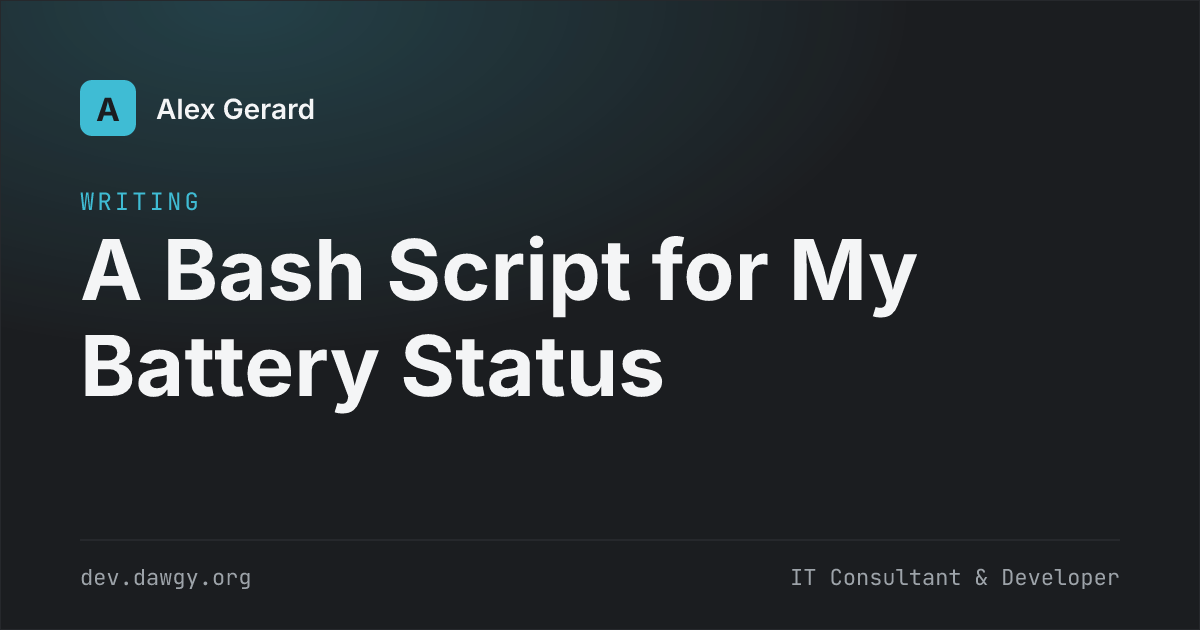
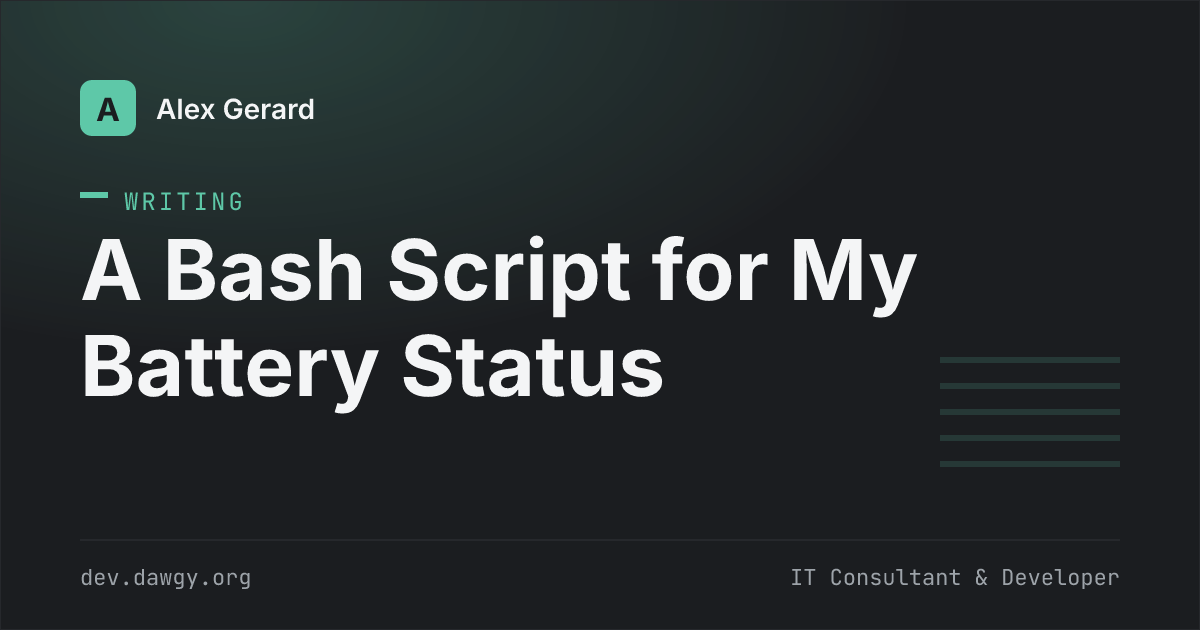
feat: self-hosted fonts, RSS, Now block, error boundary, Lighthouse CI
- Fonts self-hosted via @fontsource — no render-blocking Google Fonts
  request, no font flash.
- RSS feed (feed.xml) generated at build from the blog posts; linked in
  the head and footer.
- "Now" block on the home page (placeholder text to keep updated).
- Global ErrorBoundary — styled fallback instead of a blank page.
- OG share images now vary by type (accent colour + corner motif for
  work / writing / project).
- Lighthouse CI job in the workflow (informational, non-blocking) with
  score thresholds; a11y/SEO gated.
- Polish: richer JSON-LD (worksFor), explicit image dimensions.

Changed region(s): [[0.7708, 0.5429, 0.925, 0.754], [0.0617, 0.1206, 0.1233, 0.2413], [0.0617, 0.3016, 0.2158, 0.3317]]

diff --git a/src/components/ErrorBoundary.tsx b/src/components/ErrorBoundary.tsx
@@ -1,0 +1,58 @@
+import { Component, type ReactNode } from 'react';
+
+interface Props {
+  children: ReactNode;
+}
+interface State {
+  error: Error | null;
+}
+
+/**
+ * Catches render-time errors anywhere below it and shows a styled
+ * fallback instead of a blank page. Class component — error boundaries
+ * have no hook equivalent.
+ */
+export class ErrorBoundary extends Component<Props, State> {
+  state: State = { error: null };
+
+  static getDerivedStateFromError(error: Error): State {
+    return { error };
+  }
+
+  componentDidCatch(error: Error) {
+    // Surface the error in the console for debugging.
+    console.error('Unhandled UI error:', error);
+  }
+
+  render() {
+    if (!this.state.error) return this.props.children;
+
+    return (
+      <div className="flex min-h-[100dvh] flex-col items-center justify-center bg-bg px-6 text-center">
+        <p className="label text-accent">Error</p>
+        <h1 className="mt-3 text-3xl font-semibold tracking-tight text-text">
+          Something broke
+        </h1>
+        <p className="mt-2 max-w-sm text-sm text-text-2">
+          An unexpected error stopped the page from rendering. Reloading usually
+          fixes it.
+        </p>
+        <div className="mt-7 flex gap-3">
+          <button
+            type="button"
+            onClick={() => window.location.reload()}
+            className="rounded-lg bg-accent px-4 py-2.5 text-sm font-semibold text-accent-ink transition-transform hover:scale-[1.02]"
+          >
+            Reload
+          </button>
+          <a
+            href="/"
+            className="rounded-lg border border-line-strong px-4 py-2.5 text-sm font-semibold text-text transition-colors hover:border-accent"
+          >
+            Back home
+          </a>
+        </div>
+      </div>
+    );
+  }
+}

diff --git a/index.html b/index.html
@@ -6,14 +6,14 @@
     <link rel="icon" type="image/png" sizes="192x192" href="/icon-192.png" />
     <link rel="apple-touch-icon" href="/apple-touch-icon.png" />
     <link rel="manifest" href="/site.webmanifest" />
+    <link
+      rel="alternate"
+      type="application/rss+xml"
+      title="Alex Gerard — Writing"
+      href="/feed.xml"
+    />
     <meta name="viewport" content="width=device-width, initial-scale=1.0" />
     <meta name="theme-color" content="#1b1d20" />
-    <link rel="preconnect" href="https://fonts.googleapis.com" />
-    <link rel="preconnect" href="https://fonts.gstatic.com" crossorigin />
-    <link
-      href="https://fonts.googleapis.com/css2?family=Inter+Tight:wght@400;500;600;700&family=JetBrains+Mono:wght@400;500&display=swap"
-      rel="stylesheet"
-    />
     <title>Alex Gerard — IT Consultant & Developer</title>
     <meta
       name="description"
@@ -41,8 +41,12 @@
         "@type": "Person",
         "name": "Alex Gerard",
         "url": "https://dev.dawgy.org",
-        "image": "https://dev.dawgy.org/moi.jpeg",
+        "image": "https://dev.dawgy.org/og/default.png",
         "jobTitle": "IT Consultant & Developer",
+        "worksFor": {
+          "@type": "Organization",
+          "name": "Edda International"
+        },
         "address": {
           "@type": "PostalAddress",
           "addressCountry": "BE"

diff --git a/src/main.tsx b/src/main.tsx
@@ -3,15 +3,27 @@ import ReactDOM from 'react-dom/client';
 import { MotionConfig } from 'framer-motion';
 import App from './App';
 import { ThemeProvider } from './components/theme-provider';
+import { ErrorBoundary } from './components/ErrorBoundary';
+
+// Self-hosted fonts — no render-blocking request to Google Fonts.
+import '@fontsource/inter-tight/400.css';
+import '@fontsource/inter-tight/500.css';
+import '@fontsource/inter-tight/600.css';
+import '@fontsource/inter-tight/700.css';
+import '@fontsource/jetbrains-mono/400.css';
+import '@fontsource/jetbrains-mono/500.css';
+
 import './globals.css';
 
 ReactDOM.createRoot(document.getElementById('root')!).render(
   <StrictMode>
-    <ThemeProvider>
-      {/* Honour the OS "reduce motion" setting for all framer-motion animations */}
-      <MotionConfig reducedMotion="user">
-        <App />
-      </MotionConfig>
-    </ThemeProvider>
+    <ErrorBoundary>
+      <ThemeProvider>
+        {/* Honour the OS "reduce motion" setting for all framer-motion animations */}
+        <MotionConfig reducedMotion="user">
+          <App />
+        </MotionConfig>
+      </ThemeProvider>
+    </ErrorBoundary>
   </StrictMode>,
 );

diff --git a/src/pages/Home.tsx b/src/pages/Home.tsx
@@ -160,6 +160,22 @@ export default function Home() {
             </div>
           ))}
         </motion.dl>
+
+        {/* Now — what I'm currently focused on */}
+        <motion.div variants={rowVariants} className="card mt-4 p-5">
+          <div className="flex items-center gap-2">
+            <span className="relative flex size-2">
+              <span className="absolute inline-flex h-full w-full animate-ping rounded-full bg-accent opacity-60" />
+              <span className="relative inline-flex size-2 rounded-full bg-accent" />
+            </span>
+            <span className="label">Now</span>
+          </div>
+          <p className="mt-2.5 text-sm leading-relaxed text-text-2">
+            {/* TODO: keep this up to date — what you're working on right now. */}
+            Building internal business applications at Edda International, and
+            tinkering with side projects in my own time.
+          </p>
+        </motion.div>
       </motion.section>
 
       {/* ============ Index ============ */}

diff --git a/src/pages/About.tsx b/src/pages/About.tsx
@@ -72,7 +72,10 @@ export default function About() {
             <img
               src="/moi.jpeg"
               alt="Alex Gerard"
+              width={800}
+              height={1000}
               loading="lazy"
+              decoding="async"
               className="aspect-[4/5] w-full object-cover"
             />
             <div className="absolute inset-x-0 bottom-0 flex items-center justify-between bg-gradient-to-t from-bg/90 to-transparent p-3">

diff --git a/src/components/Footer.tsx b/src/components/Footer.tsx
@@ -9,6 +9,7 @@ const links = [
   },
   { label: 'X / Twitter', href: 'https://x.com/dxwgyy' },
   { label: 'Email', href: 'mailto:gerardalexpro@gmail.com' },
+  { label: 'RSS', href: '/feed.xml' },
 ];
 
 const pages = [
